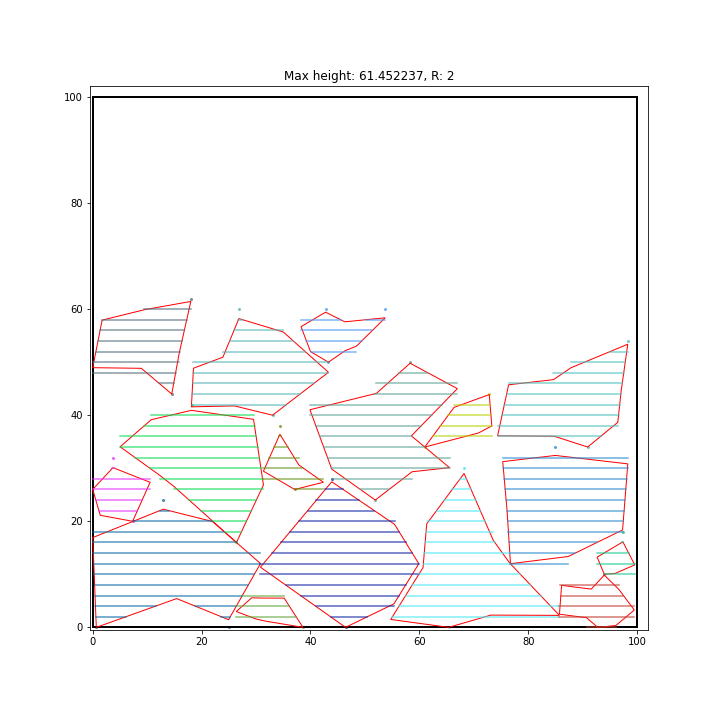
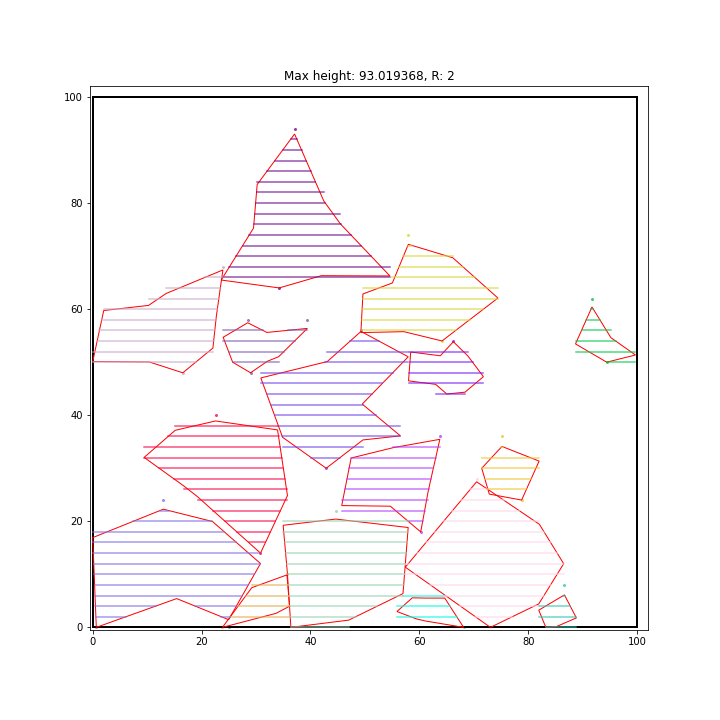
add gravity center for segments items

Changed region(s): [[0.1222, 0.1833, 0.8861, 0.8861], [0.4889, 0.0917, 0.6111, 0.1222]]

diff --git a/src/class_item.py b/src/class_item.py
@@ -34,8 +34,10 @@ class Item:
         self.t_vector = None
         self.packed = False
         self.best_rotation = None
-        self.segment_square = None
-        self.segment_square_convex = None
+        self.segment_square = []
+        self.segment_square_convex = []
+        self.segment_gravity_center_x = []
+        self.segment_gravity_center_y = []
 
         # --------  Position   ---------
         self.raster_coord = None
@@ -194,8 +196,31 @@ class Item:
                                       self.segments[rotation][i][0][0]
                 for segment in self.segments[rotation][i]:
                     item_square += segment[1] - segment[0]
-        self.segment_square = item_square
-        self.segment_square_convex = item_square_convex
+            self.segment_square.append(item_square)
+            self.segment_square_convex.append(item_square_convex)
+        return None
+
+    def set_item_gravity_centers(self, h):
+        gravity_center_x = 0
+        gravity_center_y = 0
+        item_weight = 0
+        for r in range(self.rotation + 1):
+            j = 0
+            for line in self.segments[r]:
+                centers_sum = 0
+                line_weight = 0
+                i = 0
+                while i < len(line):
+                    centers_sum += (line[i][0] + (line[i][1] - line[i][0]) / 2) * (line[i][1] - line[i][0])
+                    line_weight += line[i][1] - line[i][0]
+                    i += 1
+                gravity_center_x += centers_sum
+                gravity_center_y += (j * h) * line_weight
+                item_weight += line_weight
+                j += 1
+
+            self.segment_gravity_center_x.append(gravity_center_x / item_weight)
+            self.segment_gravity_center_y.append(gravity_center_y / item_weight)
         return None
 
     def culc_pixel_area(self, new_shift):

diff --git a/src/class_packing.py b/src/class_packing.py
@@ -106,6 +106,7 @@ class Packing():
         for item in self.items:
             item.set_segments(self.h)
         self.set_segments_squares()
+        self.set_segments_gravity_centers()
         return None
 
     def segments_bottom_left(self):
@@ -126,6 +127,11 @@ class Packing():
     def set_segments_squares(self):
         for item in self.items:
             item.set_item_segment_squares()
+        return None
+
+    def set_segments_gravity_centers(self):
+        for item in self.items:
+            item.set_item_gravity_centers(self.h)
         return None
 
 # --------------------------------  Calculations   --------------------------------
